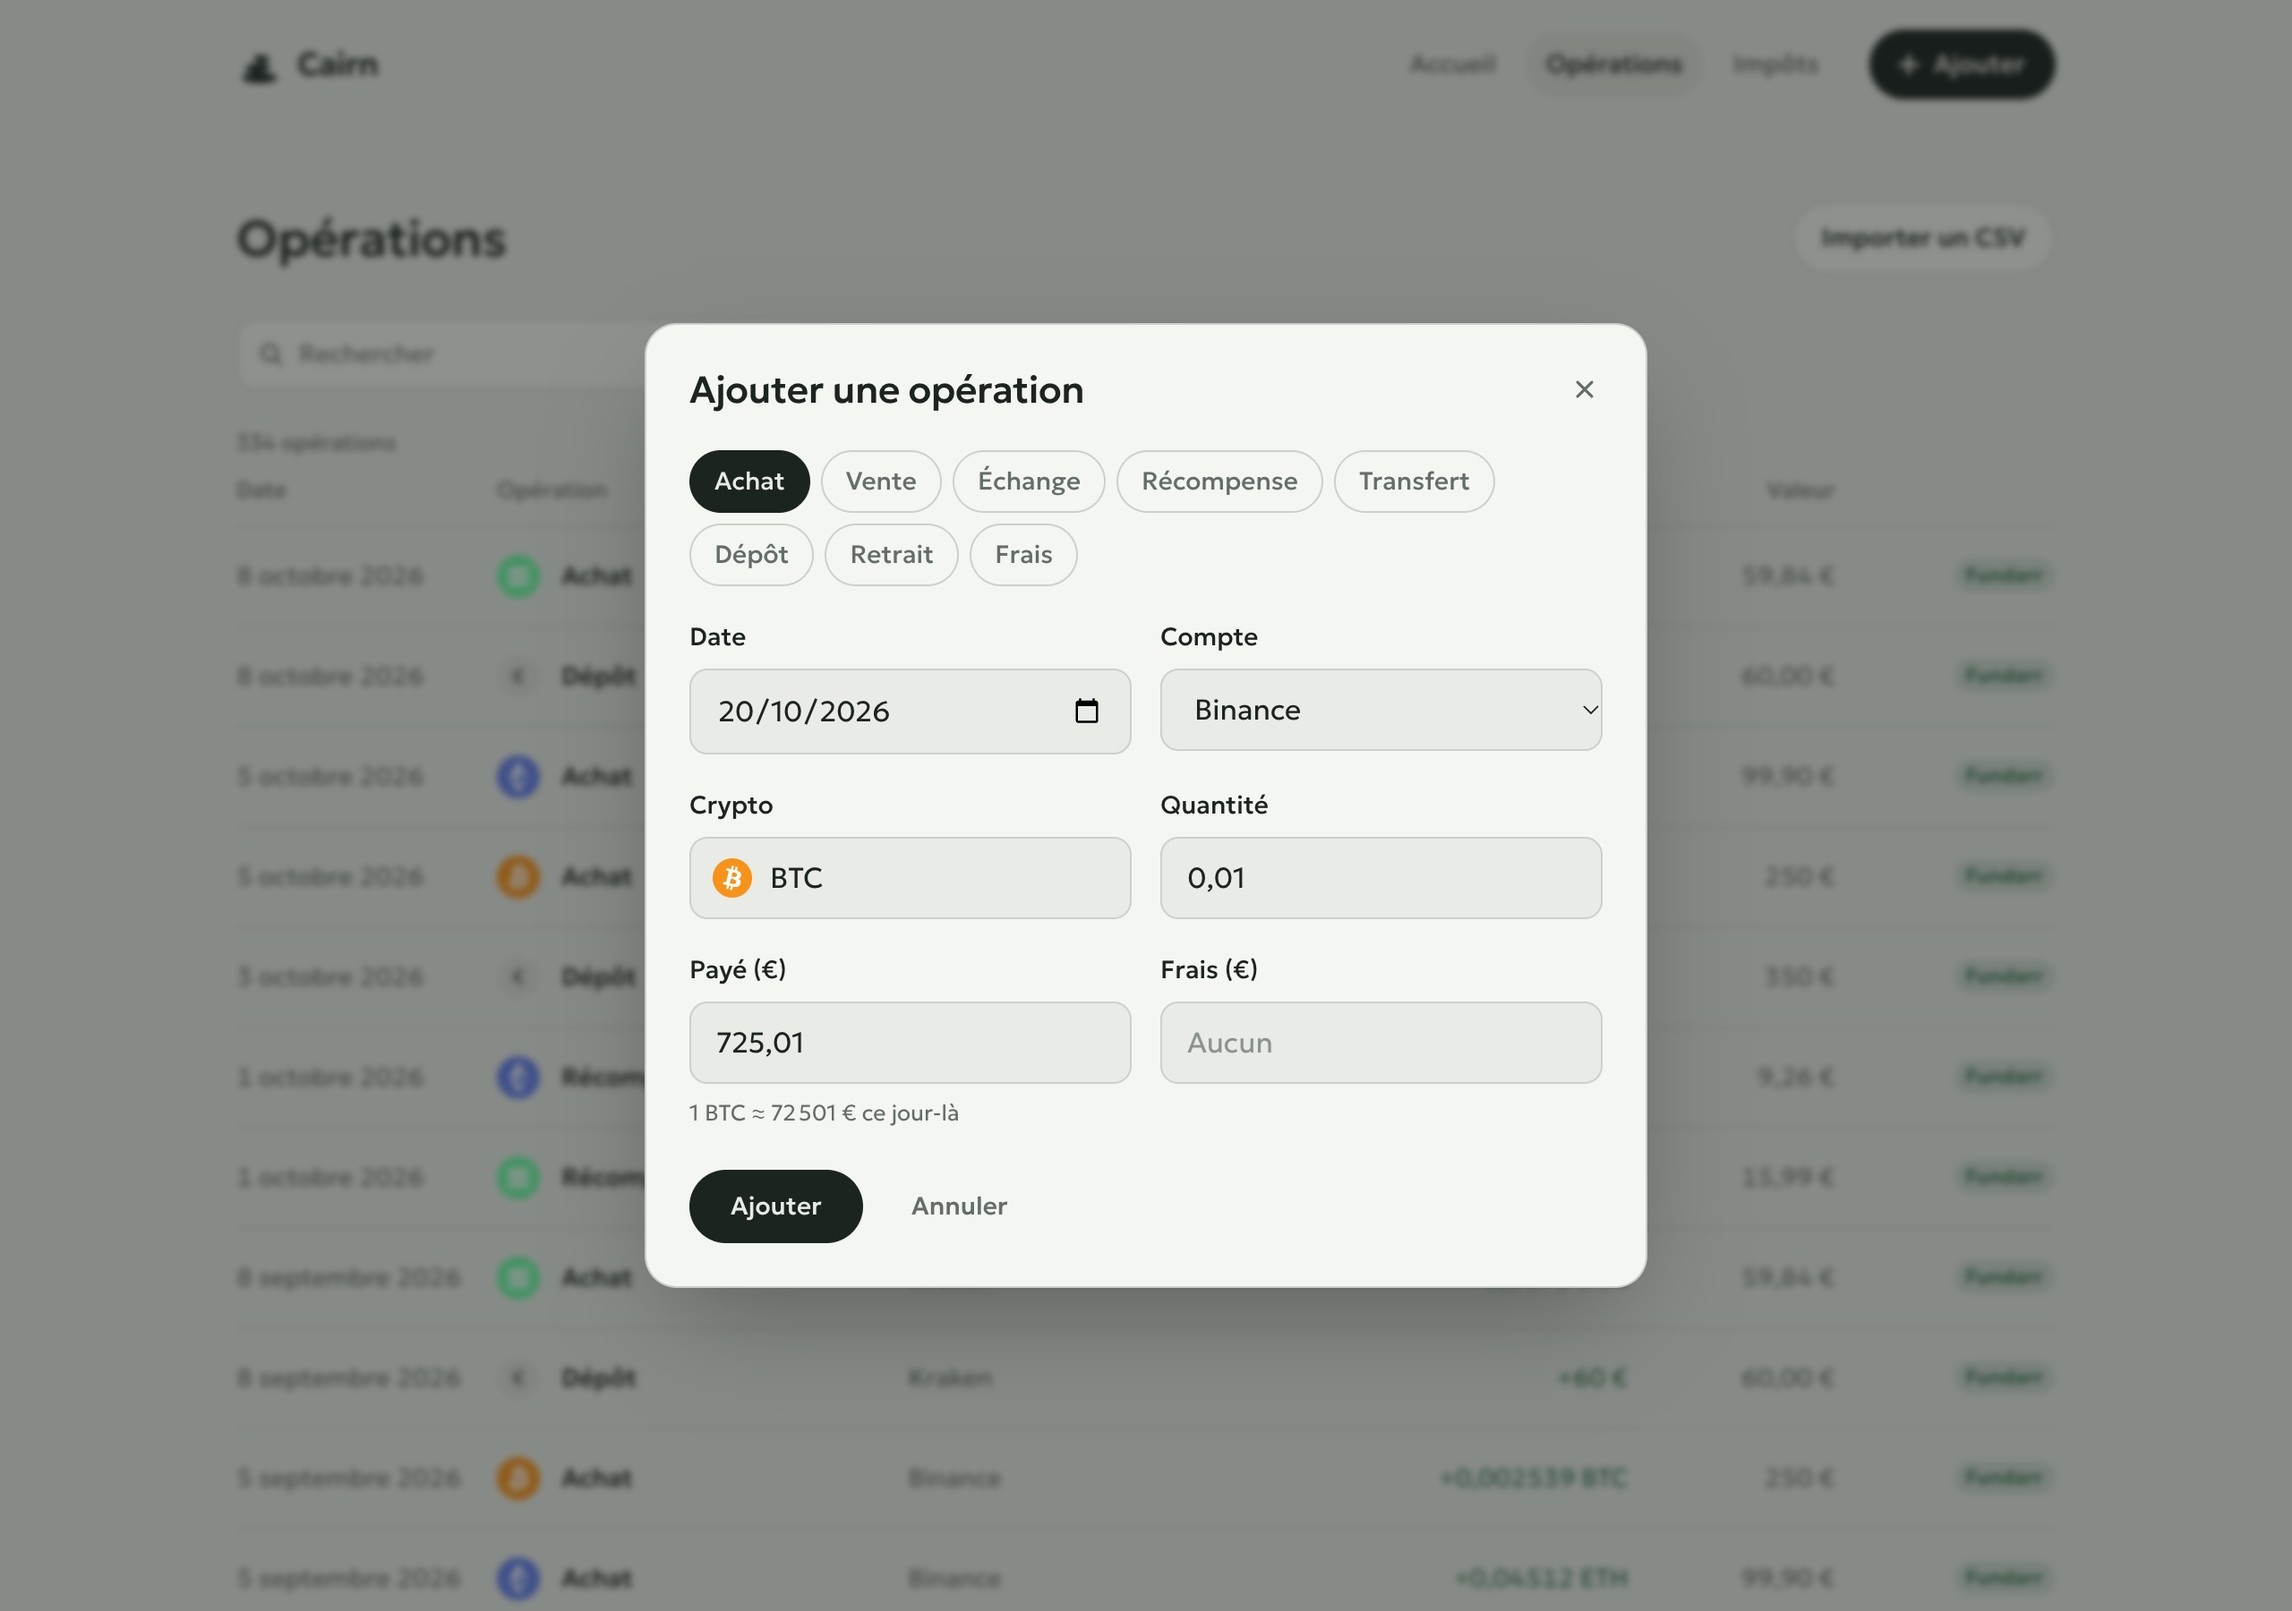
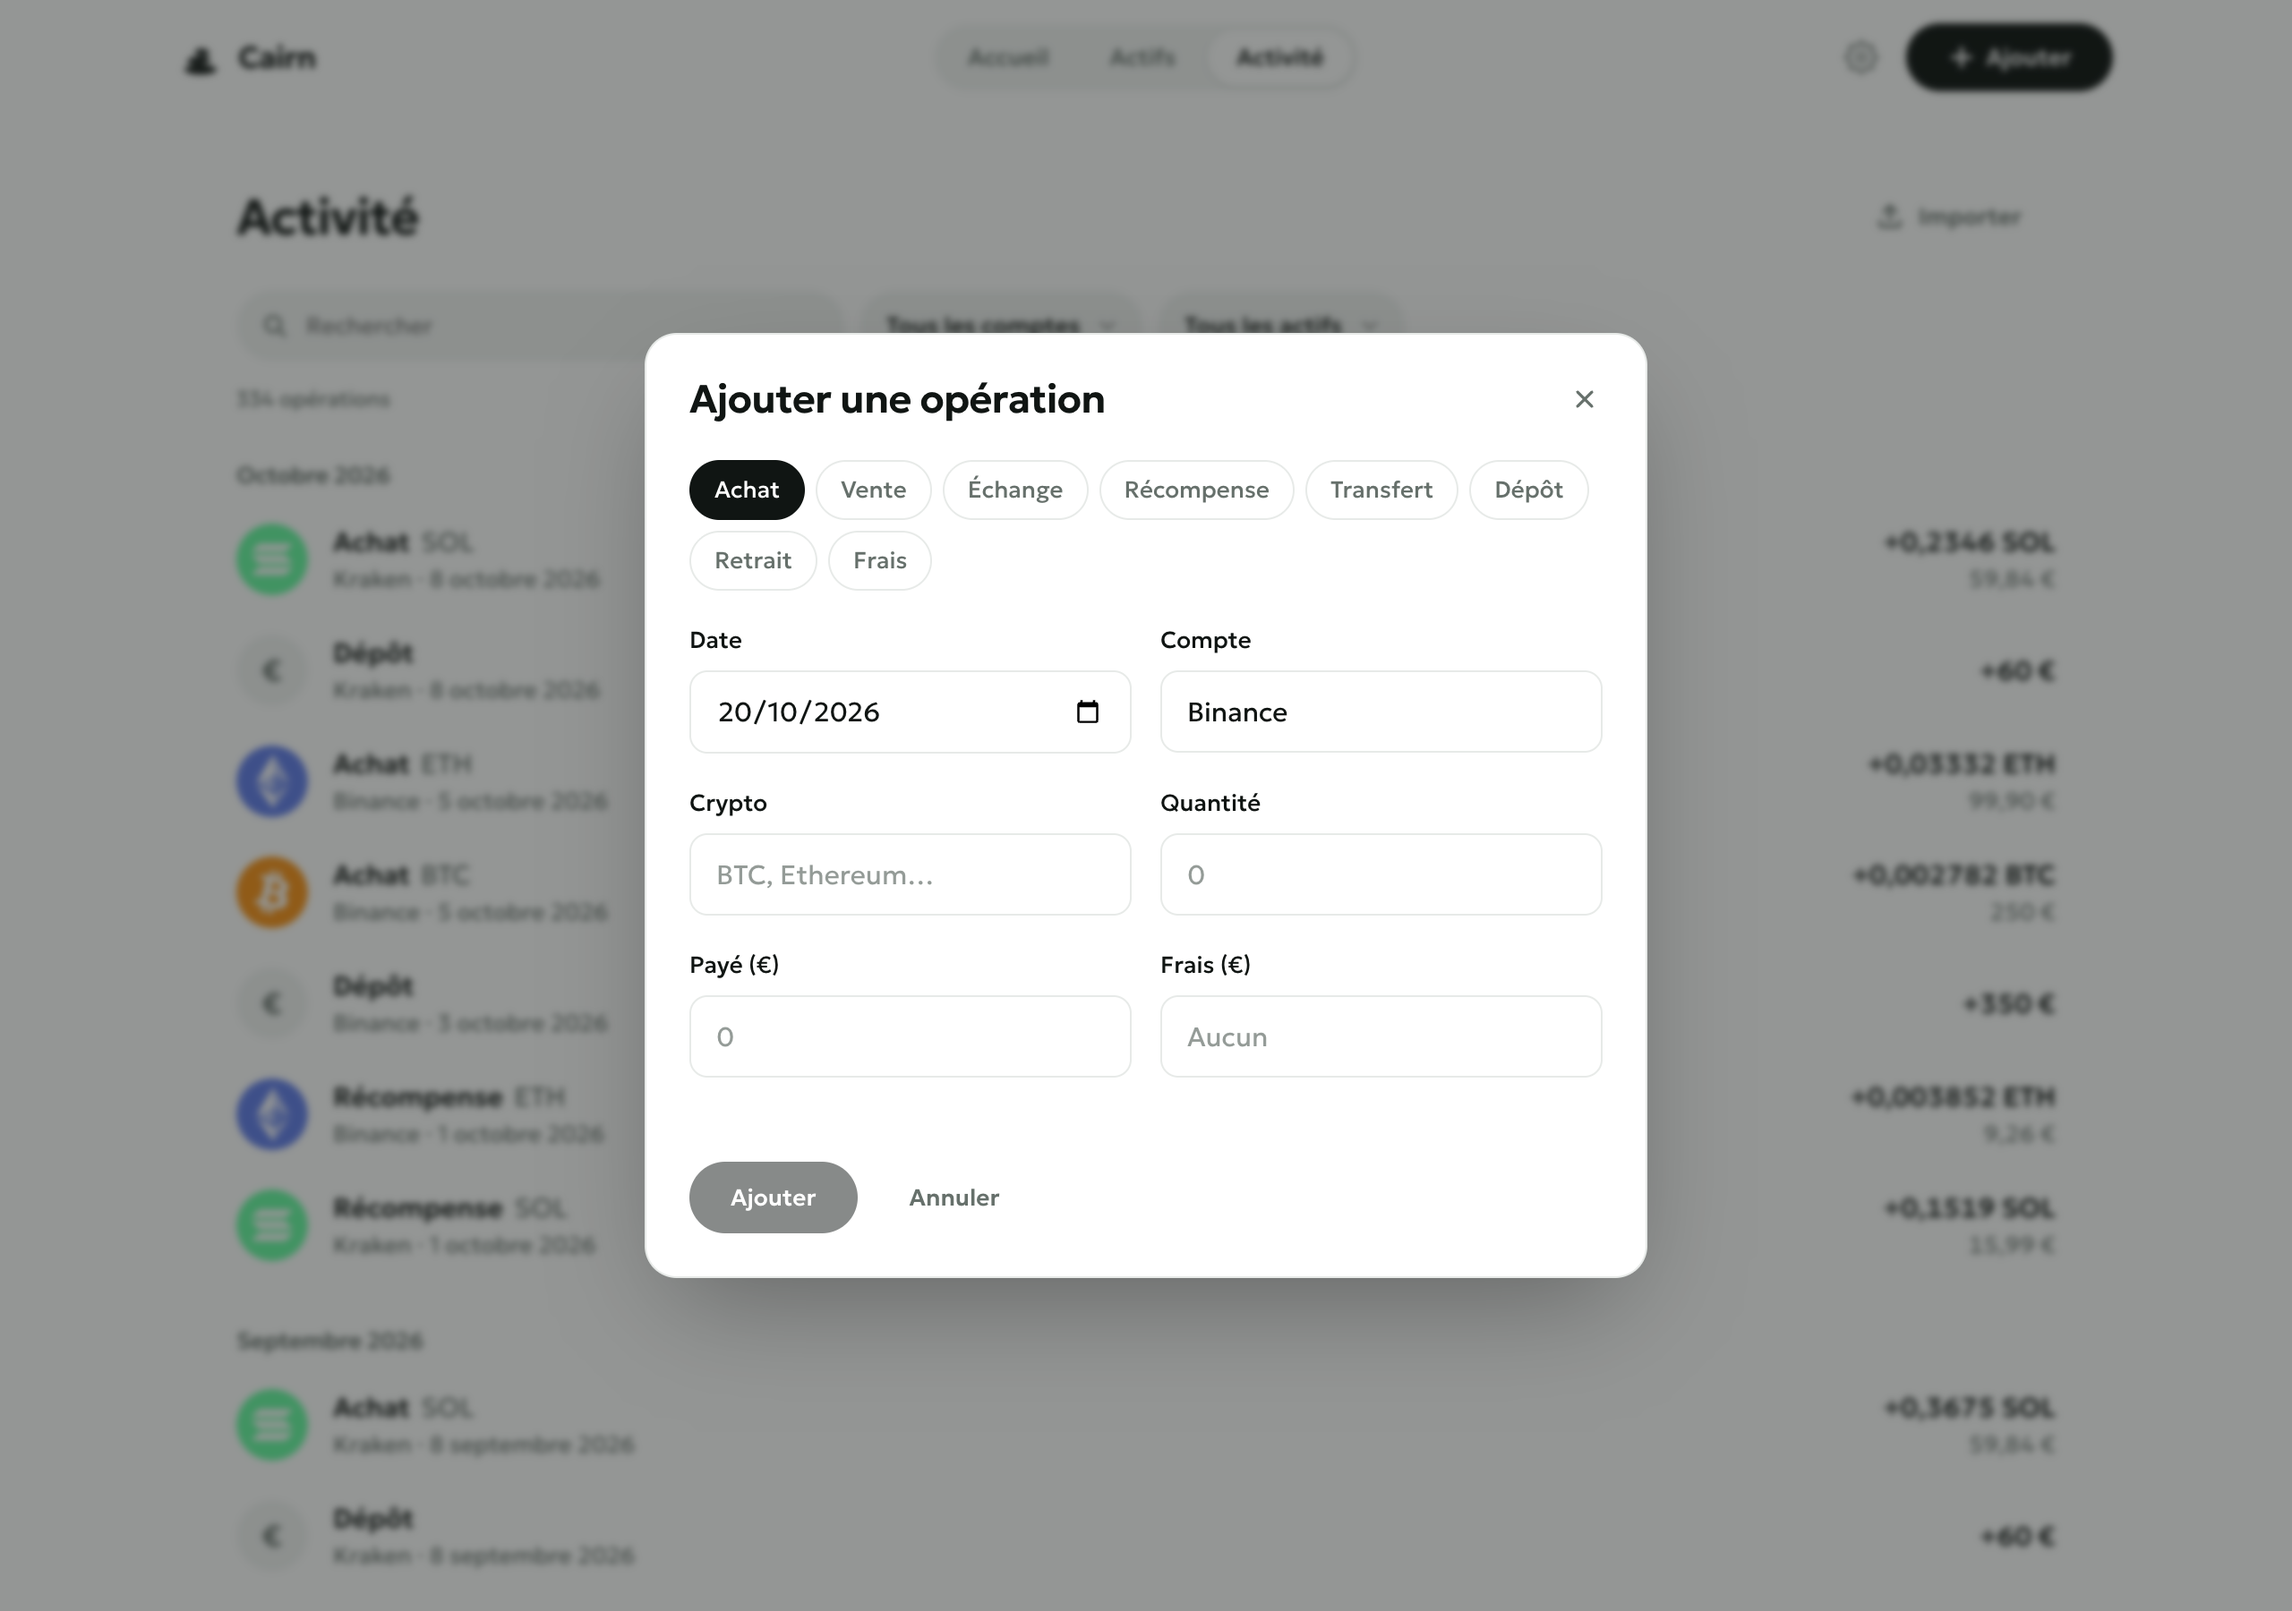
README et captures refaites sur la démo de Fundarr ; le premier lancement ne met plus la 2086 en avant

diff --git a/web/src/pages/Welcome.tsx b/web/src/pages/Welcome.tsx
@@ -27,7 +27,7 @@ export function Welcome({ onAdd, onImport, onSync }: { onAdd: () => void; onImpo
     <div className="welcome">
       <Mark />
       <h1>Pose la première pierre</h1>
-      <p className="muted">Cairn suit tes cryptos et prépare ta déclaration 2086.</p>
+      <p className="muted">Ce que valent tes cryptos, et ce qu'elles t'ont rapporté.</p>
       <ul className="ways">
         {ways.map((w, n) => (
           <li key={w.title}>

diff --git a/cmd/cairn/main.go b/cmd/cairn/main.go
@@ -1,4 +1,4 @@
-// Cairn: where my crypto stands, and the French 2086 form.
+// Cairn: where my crypto stands, how it got there, and the French 2086 form.
 //
 // One binary: it serves the UI and its API, keeps the activities in SQLite
 // (CAIRN_DATA/cairn.db) and works the portfolio out itself. They are entered

diff --git a/README.md b/README.md
@@ -1,12 +1,14 @@
 # Cairn
 
-Where my crypto stands: total value, what I put in, what it became, and the lines of the French 2086 tax form. A small, opinionated personal app, crypto only for now: you give it your operations, it does the rest.
+Where my crypto stands: what it is worth, what I put in, what it became, and how. A small, opinionated personal app, crypto only for now: you give it your operations, it does the rest.
 
 ![Accueil](docs/screenshots/accueil-clair.png)
 
-- **Accueil**: value, invested, gain; value against invested over time (1M, 1A, Tout); allocation by asset or account; each asset; this month's money in and rewards.
-- **Opérations**: every operation, by account or asset, searchable. Add, change or remove those entered by hand or imported.
-- **Impôts**: one year of disposals as 2086 lines, totals, estimated tax, a CSV to copy into the form. Rewards can be counted as already taxed income.
+- **Accueil**: the value and its change over 7J, 1M, YTD, 1A or Tout; a chart to scrub with a finger (value against money put in, or performance time-weighted so deposits are not gains); gain, yearly return (money-weighted), net contributions, rewards, fees; each coin with its month; allocation by coin or account, stablecoins apart.
+- **Statistiques** (on Accueil): monthly returns year by year, money put in each month, cumulative rewards, what came from contributions, rewards and the market, gain by coin.
+- **Actifs**: every coin, held or sold. One page each: its price with my average cost and my buys and sales, the quantity held, unrealized and realized gain, rewards, fees, its operations.
+- **Activité**: every operation by month, by account or coin, searchable. Add, change or remove those entered by hand or imported.
+- **Impôts** (a card on Accueil when a declaration has something, and in the footer): one year of disposals as 2086 lines, totals, estimated tax, a CSV to copy into the form.
 
 One Go binary serves the UI, keeps everything in SQLite (`/data/cairn.db`) and computes the portfolio itself, with [Fundarr](https://github.com/Alexis-Marcel/fundarr)'s engine as a library (average cost per account, transfers carrying their cost, the 2086 method). Daily prices come from Binance and OKX public market data and the ECB's rates (through Frankfurter): no key, no account, each day asked once and kept.
 
@@ -25,7 +27,7 @@ or see [`compose.yaml`](compose.yaml), then open http://localhost:8080. With a b
 Cairn opens on an empty Accueil that offers all three; they mix freely.
 
 1. **By hand**: Ajouter. Achat, vente, échange, dépôt, retrait, récompense, transfert entre comptes, frais. A date, an account (or a new one), a coin, a quantity; the price of a purchase or a sale is filled in from the day's close.
-2. **A CSV file**: Opérations → Importer un CSV. Each row is checked and shown before anything is added; importing the same file again adds nothing.
+2. **A CSV file**: Activité → Importer. Each row is checked and shown before anything is added; importing the same file again adds nothing.
 3. **Fundarr** (optional): Réglages → Synchroniser avec Fundarr. Cairn keeps a copy of Fundarr's history through its [changes feed](https://github.com/Alexis-Marcel/fundarr/blob/main/docs/api.md#get-apiv1changes), every 15 minutes, one account per Fundarr source. Those operations are read-only in Cairn: change them in Fundarr.
 
 ### Fundarr
@@ -86,9 +88,11 @@ cd web && npm install && npm run dev                               # http://loca
 
 | | |
 |---|---|
-| ![Opérations](docs/screenshots/operations-clair.png) | ![Ajouter](docs/screenshots/ajouter-clair.png) |
-| ![Accueil, sombre](docs/screenshots/accueil-sombre.png) | ![Mobile](docs/screenshots/operations-mobile-sombre.png) |
-| ![Premier lancement](docs/screenshots/bienvenue-clair.png) | ![Impôts](docs/screenshots/impots-clair.png) |
+| ![Statistiques](docs/screenshots/statistiques-clair.png) | ![Un actif](docs/screenshots/actif-clair.png) |
+| ![Accueil, sombre](docs/screenshots/accueil-sombre.png) | ![Activité](docs/screenshots/activite-clair.png) |
+| ![Accueil, mobile](docs/screenshots/accueil-mobile-sombre.png) | ![Un actif, mobile](docs/screenshots/actif-mobile-sombre.png) |
+| ![Ajouter](docs/screenshots/ajouter-clair.png) | ![Impôts](docs/screenshots/impots-clair.png) |
+| ![Premier lancement](docs/screenshots/bienvenue-clair.png) | ![Activité, mobile](docs/screenshots/activite-mobile-sombre.png) |
 
 ## Credits
 
